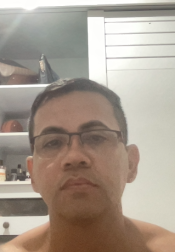
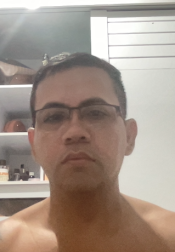
ajuste selfie precadastro

diff --git a/resources/js/photo-capture.js b/resources/js/photo-capture.js
@@ -47,10 +47,17 @@
     editor.x = clamp(editor.x, -maxX, maxX);
     editor.y = clamp(editor.y, -maxY, maxY);
 
+    context.preview.style.position = 'absolute';
     context.preview.style.width = editor.baseWidth + 'px';
     context.preview.style.height = editor.baseHeight + 'px';
     context.preview.style.left = 'calc(50% + ' + editor.x + 'px)';
     context.preview.style.top = 'calc(50% + ' + editor.y + 'px)';
+    context.preview.style.maxWidth = 'none';
+    context.preview.style.maxHeight = 'none';
+    context.preview.style.objectFit = 'fill';
+    context.preview.style.pointerEvents = 'none';
+    context.preview.style.userSelect = 'none';
+    context.preview.style.transformOrigin = 'center center';
     context.preview.style.transform = 'translate(-50%, -50%) scale(' + editor.scale + ')';
   }
 
@@ -142,7 +149,7 @@
       return;
     }
 
-    context.editor = null;
+    clearEditor(context);
     context.imageInput.value = '';
     dispatchFieldChange(context.imageInput);
     var imageLoaded = false;
@@ -174,7 +181,14 @@
       context.preview.style.removeProperty('height');
       context.preview.style.removeProperty('left');
       context.preview.style.removeProperty('top');
+      context.preview.style.removeProperty('max-width');
+      context.preview.style.removeProperty('max-height');
+      context.preview.style.removeProperty('object-fit');
+      context.preview.style.removeProperty('pointer-events');
+      context.preview.style.removeProperty('position');
       context.preview.style.removeProperty('transform');
+      context.preview.style.removeProperty('transform-origin');
+      context.preview.style.removeProperty('user-select');
       context.preview.classList.remove('is-editing');
     }
 
@@ -238,6 +252,8 @@
     if (!stage) {
       return;
     }
+
+    stage.style.touchAction = 'none';
 
     stage.addEventListener('pointerdown', function(event) {
       if (!context.editor || !context.editor.ready) {

diff --git a/resources/view/pages/precadastro/page.html b/resources/view/pages/precadastro/page.html
@@ -10,7 +10,7 @@
 
   <link rel="stylesheet" href="https://fonts.googleapis.com/css2?family=Inter:wght@400;500;600;700;800&display=swap">
   <link rel="stylesheet" href="https://fonts.googleapis.com/css?family=Material+Icons" />
-  <link href="{{URL}}/resources/css/tailwind-dashboard.css?v=115" rel="stylesheet">
+  <link href="{{URL}}/resources/css/tailwind-dashboard.css?v=116" rel="stylesheet">
 
   <script src="{{URL}}/resources/assets/js/core/jquery.min.js"></script>
 </head>

diff --git a/resources/view/pages/precadastro/form.html b/resources/view/pages/precadastro/form.html
@@ -264,4 +264,4 @@
   </form>
 </main>
 
-<script src="{{URL}}/resources/js/photo-capture.js?v=6"></script>
+<script src="{{URL}}/resources/js/photo-capture.js?v=7"></script>

diff --git a/resources/view/pages/updateAluno/formPhoto.html b/resources/view/pages/updateAluno/formPhoto.html
@@ -63,4 +63,4 @@
   </form>
 </div>
 
-<script src="{{URL}}/resources/js/photo-capture.js?v=6"></script>
+<script src="{{URL}}/resources/js/photo-capture.js?v=7"></script>

diff --git a/resources/view/painel/modules/alunos/formPhoto.html b/resources/view/painel/modules/alunos/formPhoto.html
@@ -67,4 +67,4 @@
   </form>
 </div>
 
-<script src="{{URL}}/resources/js/photo-capture.js?v=6"></script>
+<script src="{{URL}}/resources/js/photo-capture.js?v=7"></script>
